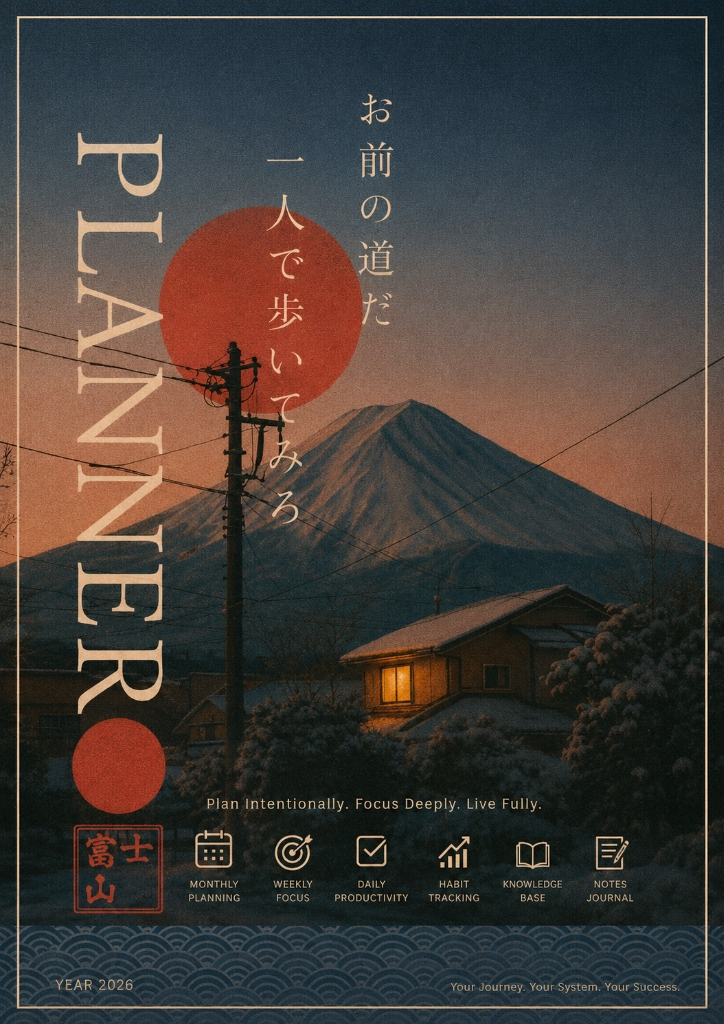
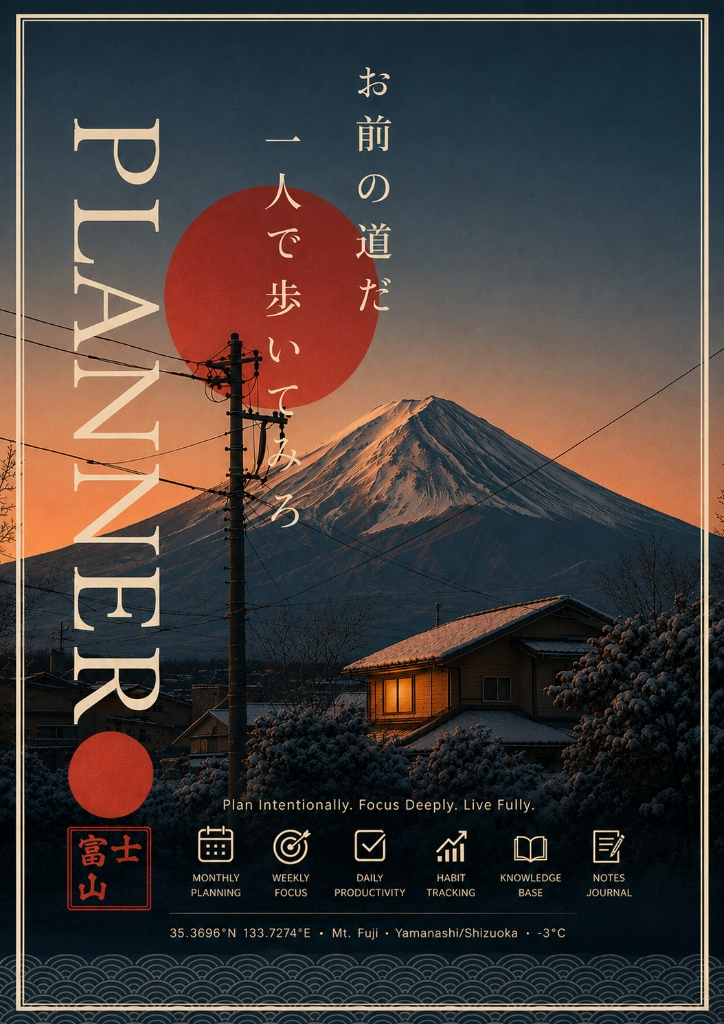
Replace custom image with Mount Fuji image and force true edge-to-edge PDF printing

diff --git a/styles.css b/styles.css
@@ -429,23 +429,40 @@ body {
 }
 
 @media print {
+    @page {
+        margin: 0; /* Removes white borders and hides headers/footers */
+        size: auto;
+    }
+
+    body {
+        margin: 0;
+        padding: 0;
+    }
+
     .cover-screen-ui {
         display: none !important;
     }
     
     .page-cover {
         display: block !important;
+        margin: 0 !important;
+        padding: 0 !important;
+        border: none !important;
         height: 100vh !important;
         width: 100vw !important;
     }
 
     .cover-print-ui {
-        position: relative !important;
+        position: fixed !important;
+        top: 0;
+        left: 0;
         opacity: 1 !important;
-        z-index: 1 !important;
-        width: 100% !important;
-        height: 100% !important;
+        z-index: 9999 !important;
+        width: 100vw !important;
+        height: 100vh !important;
         display: block !important;
+        margin: 0;
+        padding: 0;
     }
     
     .cover-print-ui img {

diff --git a/index.html b/index.html
@@ -8,7 +8,7 @@
     <link rel="preconnect" href="https://fonts.googleapis.com">
     <link rel="preconnect" href="https://fonts.gstatic.com" crossorigin>
     <link href="https://fonts.googleapis.com/css2?family=Cormorant+Garamond:ital,wght@0,300;0,400;0,500;0,600;1,300;1,400&family=Inter:opsz,wght@14..32,300;14..32,400;14..32,500;14..32,600&family=JetBrains+Mono:wght@300;400&display=swap" rel="stylesheet">
-    <link rel="stylesheet" href="styles.css?v=6">
+    <link rel="stylesheet" href="styles.css?v=7">
 </head>
 <body>
     <!-- Authentication Overlay -->
@@ -98,9 +98,9 @@
     <audio id="bg-audio"></audio>
 
     <script src="https://cdn.jsdelivr.net/npm/@supabase/supabase-js@2"></script>
-    <script src="supabase-config.js?v=6"></script>
-    <script src="supabase.js?v=6"></script>
-    <script src="auth.js?v=6"></script>
-    <script src="app.js?v=6"></script>
+    <script src="supabase-config.js?v=7"></script>
+    <script src="supabase.js?v=7"></script>
+    <script src="auth.js?v=7"></script>
+    <script src="app.js?v=7"></script>
 </body>
 </html>